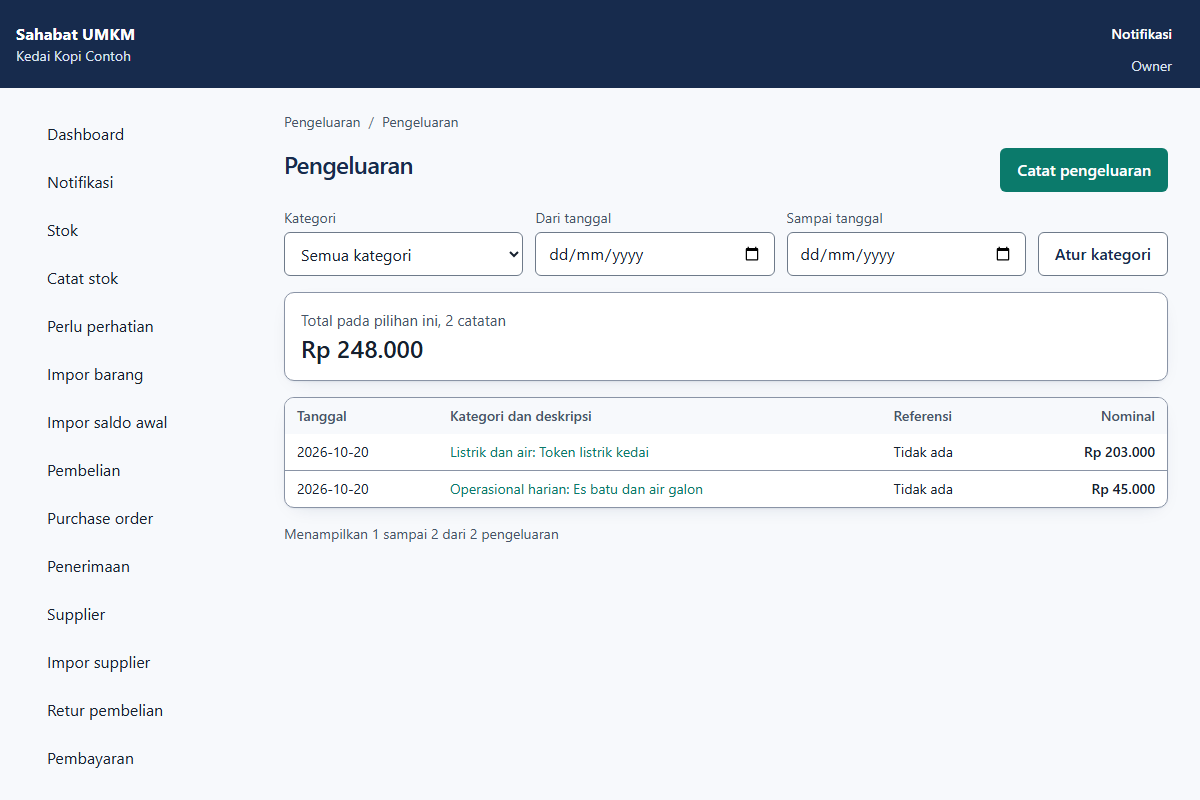
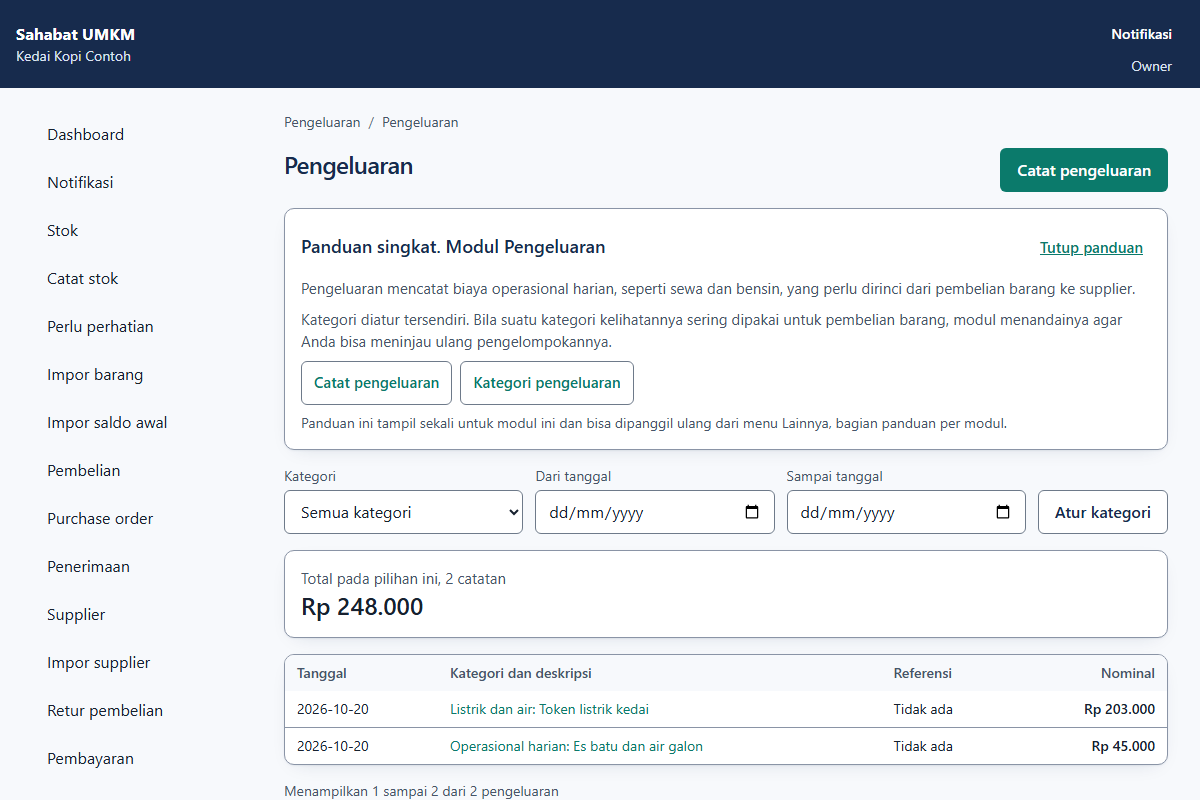
Fase 13: dokumentasi K-24 sampai K-26, teks publik antrean offline, dan tangkapan layar terbaru

diff --git a/apps/web/e2e/pwa.spec.ts b/apps/web/e2e/pwa.spec.ts
@@ -21,11 +21,16 @@ test('manifest dan ikon PWA tersedia serta service worker terdaftar', async ({ p
   expect((await page.request.get('/offline.html')).status()).toBe(200)
 
   // Pendaftaran service worker hanya di build produksi, dan berjalan dalam
-  // keadaan aktif supaya laman dapat dilayani tanpa jaringan.
+  // keadaan aktif supaya laman dapat dilayani tanpa jaringan. scriptURL kembali
+  // absolut, jadi yang dibandingkan adalah path-nya.
   await expect
-    .poll(async () => page.evaluate(async () => (await navigator.serviceWorker.getRegistration('/'))?.active?.scriptURL ?? null), {
-      timeout: 15_000,
-    })
+    .poll(
+      async () => {
+        const skrip = await page.evaluate(async () => (await navigator.serviceWorker.getRegistration('/'))?.active?.scriptURL ?? null)
+        return skrip === null ? null : new URL(skrip).pathname
+      },
+      { timeout: 15_000 },
+    )
     .toBe('/sw.js')
 })
 

diff --git a/apps/web/test/situs.test.ts b/apps/web/test/situs.test.ts
@@ -168,13 +168,17 @@ describe('pusat bantuan (PRD 15)', () => {
     expect(gabungan).toContain('verifikasi')
   })
 
-  it('tidak menjanjikan antrean offline yang belum ada', () => {
+  it('menjelaskan keadaan antrean offline apa adanya (PRD 10)', () => {
     const gabungan = bagianBantuan
       .flatMap((bagian) => bagian.butir.map((butir) => butir.isi))
       .concat(masalahUmum.map((item) => item.isi))
       .join(' ')
       .toLowerCase()
-    expect(gabungan).toContain('antrean penyimpanan offline belum tersedia')
+    // Antrean offline untuk catatan stok sudah berdiri; bagian lain masih butuh
+    // sambungan, dan keduanya harus tersurat.
+    expect(gabungan).toContain('antrean')
+    expect(gabungan).toContain('mengonfirmasi')
+    expect(gabungan).toContain('sambungan internet')
   })
 })
 

diff --git a/apps/web/src/lib/tentang.ts b/apps/web/src/lib/tentang.ts
@@ -31,6 +31,6 @@ export const prinsipTentang: Prinsip[] = [
 
 export const batasTentang: string[] = [
   'Aplikasi ini bukan pengganti akuntansi. Tidak ada jurnal, neraca, atau perhitungan pajak, dan laporan tidak menampilkan laba bersih.',
-  'Aplikasi membutuhkan sambungan internet. Antrean pencatatan saat sinyal hilang sedang dikerjakan untuk rilis berikutnya.',
+  'Catatan stok bisa dibuat saat sinyal hilang dan masuk antrean dengan status yang terlihat, tetapi bagian lain seperti penjualan, pembelian, dan pengeluaran masih membutuhkan sambungan internet.',
   'Workspace contoh untuk mencoba produk tanpa mendaftar belum tersedia. Untuk sekarang, cara mencobanya adalah membuat akun gratis dan mengisi data sendiri.',
 ]

diff --git a/apps/web/src/lib/beranda.ts b/apps/web/src/lib/beranda.ts
@@ -175,7 +175,7 @@ export const tanyaJawab: Array<{ tanya: string; jawab: string }> = [
   {
     tanya: 'Bagaimana jika sinyal hilang saat mencatat?',
     jawab:
-      'Aplikasi saat ini memerlukan koneksi internet untuk menyimpan catatan. Pencatatan saat sinyal hilang belum tersedia, dan sedang dikerjakan untuk rilis berikutnya.',
+      'Halaman yang sudah pernah dibuka tetap bisa dibuka tanpa sinyal, dan catatan stok yang ditulis saat offline masuk antrean dengan status yang terlihat. Catatan tersebut baru mengubah saldo setelah server mengonfirmasi saat koneksi kembali. Mencatat penjualan, pembelian, dan pengeluaran masih perlu koneksi internet.',
   },
   {
     tanya: 'Apakah ini pengganti akuntansi?',

diff --git a/apps/web/src/lib/bantuan.ts b/apps/web/src/lib/bantuan.ts
@@ -198,7 +198,7 @@ export const masalahUmum: ButirBantuan[] = [
   },
   {
     judul: 'Sinyal hilang saat mencatat',
-    isi: 'Aplikasi membutuhkan sambungan internet untuk menyimpan. Catatan yang gagal terkirim perlu diulang setelah kembali online, karena antrean penyimpanan offline belum tersedia.',
+    isi: 'Halaman yang sudah pernah dibuka tetap bisa dibuka tanpa sinyal. Catatan stok yang dibuat saat offline masuk antrean dengan status yang terlihat dan baru mengubah saldo setelah server mengonfirmasi saat koneksi kembali. Mencatat penjualan, pembelian, dan pengeluaran masih membutuhkan sambungan internet.',
   },
   {
     judul: 'Saldo tidak sama dengan hitungan fisik',

diff --git a/apps/web/e2e/antrean-offline.spec.ts b/apps/web/e2e/antrean-offline.spec.ts
@@ -22,7 +22,7 @@ test('isian stok saat online gagal masuk antrean, lalu terkirim saat koneksi kem
 
   await page.goto('/stok/input')
   const pilihan = page.locator('#produk option:not([value=""])')
-  await expect(pilihan.first()).toBeVisible({ timeout: 60_000 })
+  await expect(pilihan.first()).toBeAttached({ timeout: 60_000 })
   const nilaiBarang = await pilihan.first().getAttribute('value')
   expect(nilaiBarang).toBeTruthy()
 

diff --git a/docs/KEPUTUSAN-TEKNIS.md b/docs/KEPUTUSAN-TEKNIS.md
@@ -31,8 +31,11 @@ Terakhir diperbarui: 19 Oktober 2026.
 | K-19 | Gaya frontend | Tailwind CSS v4 dan Motion (Framer Motion) untuk seluruh antarmuka, menggantikan K-16. Nilai warna tetap hanya dari `packages/design-tokens`; blok `@theme` di `apps/web/src/styles/globals.css` wajib sama persis dan dijaga tes `theme-sync`. Gerak dibatasi pada animasi transformasi masuk yang terukur dan menghormati `prefers-reduced-motion` | Permintaan pemilik produk, 17 Okt 2026; PRD 13 |
 | K-20 | Notifikasi dan email | Baris notifikasi ditulis di dalam transaksi peristiwanya; email diambil dari antrean `emailed_at is null` oleh penjadwal dalam proses, tidak pernah dikirim dari dalam transaksi. Penerima dihitung dari izin (capability), pelaku sendiri dikecualikan, dan preferensi pengguna hanya bisa mematikan kanal. Notifikasi keamanan bersifat tingkat akun (`workspace_id null`) sehingga tampil di daftar semua usaha pemiliknya. Utang jatuh tempo memakai ambang `overdueDays > 0` yang sama dengan dashboard dan hanya untuk paket dengan fitur `returns`. Ringkasan harian opt-in, dikirim setelah pukul 7 pagi waktu usaha | PRD 6.9, PRD 6.2, PRD 8, PRD 16 |
 | K-21 | Penagihan langganan | Midtrans Snap lewat halaman pembayaran Midtrans, bukan Snap tertanam. Baris tagihan di-commit sebelum tautan bayar diminta, pelunasan hanya dipercaya dari notifikasi bertanda tangan, faktur PDF dibuat dengan pdfkit, masa berbayar menumpuk dari ujung masa berjalan, dan pembayaran hanya menyala kalau identitas penjual serta tautan kebijakan refund diisi lewat environment | PRD 6.10, PRD 15, PRD 16 |
-| K-22 | Beranda publik | Halaman statis berkomponen server dengan seluruh isi dan teks di `apps/web/src/lib/beranda.ts` supaya bisa diuji. Tangkapan layarnya adalah potret aplikasi dengan data contoh yang diambil `scripts/beranda-gambar.mts` dan ikut di-commit. Harga dibaca dari katalog `@sahabat/shared`, bukan ditulis ulang. Navigasi hanya menautkan halaman atau bagian yang ada; tombol "Lihat Demo Produk" menunggu workspace contoh (B-13). FAQ menjawab keadaan sekarang, termasuk kebutuhan koneksi internet sampai antrean offline selesai | PRD 11, PRD 5, K-07, B-13 |
+| K-22 | Beranda publik | Halaman statis berkomponen server dengan seluruh isi dan teks di `apps/web/src/lib/beranda.ts` supaya bisa diuji. Tangkapan layarnya adalah potret aplikasi dengan data contoh yang diambil `scripts/beranda-gambar.mts` dan ikut di-commit. Harga dibaca dari katalog `@sahabat/shared`, bukan ditulis ulang. Navigasi hanya menautkan halaman atau bagian yang ada; tombol "Lihat Demo Produk" menunggu workspace contoh (B-13). FAQ menjawab keadaan sekarang, termasuk cara antrean offline (K-25) mengamankan catatan stok saat sinyal hilang | PRD 11, PRD 5, K-07, B-13 |
 | K-23 | Situs publik lengkap | Sisa halaman publik PRD 5 dikerjakan: `/fitur` plus satu halaman per modul (`/fitur/stok`, `pembelian`, `penjualan`, `pengeluaran`, `laporan`, `langganan`), `/untuk-usaha`, `/harga`, `/bantuan`, `/tentang`, `/status`, `/kontak`, dan `/kebijakan/privasi`, `/syarat`, `/refund`. Komponen header, kaki, tombol, gambar sampel, dan tabel paket dipakai bersama di `apps/web/src/app/components/situs.tsx`; tautan navigasi/kaki dan metadata di `apps/web/src/lib/situs.ts`; isi tiap halaman di pustaka masing-masing (`lib/fitur.ts`, `lib/harga.ts`, `lib/bantuan.ts`, `lib/tentang.ts`, `lib/status.ts`, `lib/kontak.ts`, `lib/kebijakan.ts`). Halaman Status menulis "Belum dipantau otomatis" tanpa angka ketersediaan; Kontak hanya menampilkan saluran yang nyata; kebijakan dipasang sebagai draf berlabel "belum berlaku"; Harga tetap membaca katalog dengan catatan "masih usulan awal" | PRD 5, 11, 14, 15, 16 |
+| K-24 | PWA | Manifest di `apps/web/public/manifest.webmanifest` memakai warna token PRD 10 dan ikon PNG yang dihasilkan skrip tanpa pustaka gambar `scripts/ikon-pwa.mts`; lambang tiga batangnya sementara sampai merek resmi ditetapkan. Service worker `public/sw.js`: navigasi jaringan dulu lalu salinan, jatuh ke `offline.html` bila halaman belum pernah dibuka; aset statis yang tak berubah `_next/static`, `ikon`, `beranda` memakai salinan dulu; asal API berbeda dan tidak pernah disangga sehingga angka tidak pernah disajikan dari salinan. Pendaftaran hanya pada build produksi | PRD 10 |
+| K-25 | Antrean offline catatan stok | Isian Catat stok yang gagal karena jaringan masuk antrean di `apps/web/src/lib/offline.ts` (localStorage per asal), lengkap dengan kunci idempotensi yang ikut tersimpan sehingga kirim ulang tidak menggandakan stok. Status entri hanya "menunggu" atau "gagal berikut alasan server"; entri dihapus hanya setelah balasan sukses dari server, dan salinan daftar barang/lokasi selalu berlabel waktu salinannya. Modul lain tidak masuk antrean dan tetap menyatakan butuh koneksi | PRD 10, PRD 20, PRD 6.4 |
+| K-26 | Aktivasi dan panduan | Daftar periksa aktivasi dihitung server dari data workspace (`apps/api/src/onboarding`) dengan tabel `workspace_onboarding_skips` hanya untuk langkah yang sengaja dilewati; melompati atau membuka kembali hanya boleh Owner dan Admin, dan kartunya hilang bila semua langkah selesai atau dilewati. Panduan singkat per modul tampil saat halaman modul pertama dibuka, tutupnya disimpan di localStorage karena pilihannya tampilan, bukan data, dan teksnya bisa dibaca ulang dari halaman Lainnya | PRD 12 |
 
 ### Alasan K-12
 
@@ -324,11 +327,11 @@ berubah, bukan sekadar tertinggal dari sesi pengembangan tertentu.
 Navigasi dan tombolnya hanya menautkan yang benar-benar ada (PRD 5): sementara memakai
 loncatan ke bagian beranda sampai halaman modul dan harga berdiri, dan tombol "Lihat
 Demo Produk" belum dibuat karena workspace contohnya belum ada (B-13). FAQ menjawab
-seadanya: ekspor CSV sudah ada, aplikasi masih butuh internet sampai antrean offline
-(Fase 13) selesai, dan aplikasi ini bukan pengganti akuntansi (PRD 2). Butir yang belum
-terpasang (cadangan otomatis, enkripsi data saat tersimpan, TLS, kanal dukungan) tidak
-dipasang di beranda; melanggengkan klaimnya di teks promosi berarti membuat janji yang
-tidak bisa dipenuhi kode.
+seadanya: ekspor CSV sudah ada, catatan stok bisa masuk antrean offline (K-25),
+modul lain masih butuh koneksi, dan aplikasi ini bukan pengganti akuntansi (PRD 2).
+Butir yang belum terpasang (cadangan otomatis, enkripsi data saat tersimpan, TLS, kanal
+dukungan) tidak dipasang di beranda; melanggengkan klaimnya di teks promosi berarti
+membuat janji yang tidak bisa dipenuhi kode.
 
 Alamat kanonik, peta situs, robots, dan metadata membaca `NEXT_PUBLIC_SITE_URL`
 (bawaan `http://localhost:3000`) supaya URL absolut tidak ditulis ulang di beberapa
@@ -373,6 +376,60 @@ tetapi tidak menentukan bentuk isinya untuk soal transparansi. Keputusannya:
 - Catatan atas K-22: loncatan ke bagian beranda kini sudah diganti tautan ke
   halaman sungguhan sesuai rencananya, dan tes beranda memeriksa tidak ada lagi
   tautan `#` yang tersisa.
+
+### Alasan K-24
+
+PRD 10 menuntut aplikasi yang bisa dipasang dan halaman yang sudah dimuat tetap bisa
+dibuka saat sinyal hilang, tetapi tidak menentukan strategi service worker. Yang dipilih:
+
+- Navigasi jaringan dulu demi angka yang selalu baru; salinan hanya penyelamat saat
+  jaringan gagal, dan halaman yang belum pernah dibuka diberi `offline.html` yang
+  menyatakan batasnya dengan jujur, bukan memalsukan halaman lama.
+- API berada pada asal (origin) yang berbeda dan tidak pernah disangga. Menyajikan data
+  stok dari salinan berarti menampilkan angka basi seolah baru, dan itu melanggar
+  integritas data. Input offline diurus antrean halaman (K-25), bukan service worker,
+  supaya satu jalur kode yang sama untuk kirim langsung dan kirim ulang, termasuk
+  balasan galat yang sama.
+- Ikon dibuat skrip tanpa pustaka gambar dengan pengesahan baca ulang, karena menambah
+  dependensi gambar untuk lima berkas PNG kecil tidak sebanding. Lambang tiga batangnya
+  sementara sampai merek resmi ditetapkan; itu tetap tercatat di penghalang bagian 8.
+- Pendaftaran service worker hanya di build produksi supaya pengembangan dengan isi
+  yang terus berubah tidak tertahan salinan lama.
+
+### Alasan K-25
+
+PRD 10 menuntut isian offline masuk antrean dengan status terlihat dan tidak pernah
+dianggap berhasil sebelum server mengonfirmasi; PRD 20 memitigasi data ganda dengan
+antrean beridempotensi. Bentuknya:
+
+- Kunci idempotensi dibuat saat isian masuk antrean dan disimpan bersama entri, jadi
+  kirim ulang yang sama menghasilkan satu baris ledger, bukan dua. Ini memakai
+  dukungan idempotensi endpoint penyesuaian stok yang sudah ada (PRD 6.4).
+- Statusnya dua: "menunggu koneksi" dan "gagal dikirim" beserta alasan server. Entri
+  gagal tidak dihapus diam-diam, karena saldo yang berubah sejak isian dibuat bisa
+  membuatnya ditolak (stok negatif), dan itu keputusan pengguna, bukan sistem.
+- Antrean disimpan di localStorage, bukan IndexedDB, karena isinya hanya draf kecil
+  yang belum terkirim dan berkas sederhananya mudah diuji. Data utama tetap di server;
+  antrean yang rusak dibaca sebagai kosong dan tidak pernah diklaim terkirim.
+- Daftar barang dan lokasi disalin berlabel waktu supaya halaman yang sudah dibuka
+  tetap bisa dipakai offline, dan salinannya tidak pernah menyamar sebagai data segar.
+
+### Alasan K-26
+
+PRD 12 menuntut langkah opsional bisa dilewati dan ditemukan lagi lewat daftar periksa
+di dashboard, plus tur singkat per modul yang bisa dipanggil ulang. Keputusannya:
+
+- Keadaan selesai dihitung dari data (jenis usaha terisi, ada barang aktif, ada catatan
+  stok masuk dan batas minimum, ada transaksi), bukan dicentang saat pengguna membuka
+  halaman tautannya, jadi daftar tidak bisa berpura-pura selesai.
+- Lewatan disimpan di tabel `workspace_onboarding_skips` di server, bukan di peramban,
+  supaya keadaan sama untuk semua anggota dan perangkat. Hanya Owner dan Admin boleh
+  melompati karena perubahan itu mengubah tampilan semua anggota; server yang
+  memeriksa perannya, seperti aturan umum proyek ini.
+- Panduan singkat memakai satu pustaka teks untuk panel halaman modul dan bagian
+  "Panduan singkat per modul" di halaman Lainnya, sehingga "dipanggil ulang dari menu"
+  tidak butuh mekanisme tambahan dan teksnya teruji. Tutup panel disimpan di localStorage
+  karena pilihan tampilan, bukan data usaha.
 
 ### Alasan K-02
 

diff --git a/README.md b/README.md
@@ -223,7 +223,8 @@ docs/
 | Penjualan | daftar penjualan, catat penjualan, detail dan pembatalan, pelanggan, impor CSV | 6.4, 6.8 |
 | Pengeluaran | daftar, pencatatan, detail, kategori, lampiran foto/PDF | 6.5 |
 | Laporan dan ekspor | laporan usaha, pengaturan impor dan ekspor | 6.6, 6.8 |
-| Dashboard | ringkasan usaha, menu lainnya di ponsel | 6.7, 10 |
+| Dashboard | ringkasan usaha, daftar periksa aktivasi (PRD 12), menu lainnya yang memuat panduan singkat per modul | 6.7, 10, 12 |
+| PWA | manifest dengan ikon, service worker dengan offline.html, antrean offline catatan stok dengan idempotensi | 10, 20 |
 | Notifikasi | daftar notifikasi, pengaturan notifikasi | 6.9 |
 | Langganan dan tagihan | paket dan langganan, riwayat pembayaran, faktur PDF | 6.10 |
 | Situs publik | beranda + halaman fitur per modul, untuk usaha F&B dan retail, harga, pusat bantuan, tentang, status, kontak, dokumen kebijakan (draf), dengan 7 tangkapan layar data contoh, robots.txt, sitemap.xml, dan data terstruktur | 11, 15 |
@@ -435,8 +436,8 @@ keadaan yang tidak mungkin dibuat pengguna.
 Sesuai PRD 5, halaman dipasang di navigasi hanya setelah isinya selesai, dan
 navigasi kini menautkan halaman sungguhan. Tombol "Lihat Demo Produk" tetap menunggu
 workspace contoh (B-13), jadi tombol hero kedua menunjuk halaman Harga. Jawaban
-pertanyaan umum menyatakan keadaan sekarang, termasuk bahwa aplikasi
-masih butuh koneksi internet sampai antrean offline (Fase 13) selesai, dan halaman
+pertanyaan umum menyatakan keadaan sekarang: catatan stok bisa masuk antrean offline,
+modul lain masih butuh koneksi, dan aplikasi ini bukan pengganti akuntansi. Halaman
 Status menyebut pemantauan otomatisnya belum terpasang (PRD 14).
 
 Verifikasi Fase 12 (situs publik penuh) lulus: `npm run verify` (473 tes lulus,
@@ -444,6 +445,38 @@ Verifikasi Fase 12 (situs publik penuh) lulus: `npm run verify` (473 tes lulus,
 test:postgres:local` (9 lulus, 1 dilewati), build produksi, dan `npm run test:e2e`
 (248 lulus, termasuk audit aksesibilitas axe untuk seluruh halaman publik baru di
 ponsel dan desktop).
+
+## PWA dan perangkat offline (Fase 13)
+
+PRD 10 dan PRD 12 tamat di fase ini. PWA dapat dipasang: manifest di
+`apps/web/public/manifest.webmanifest` memakai warna token PRD 10, ikonnya lima PNG
+yang dihasilkan `npx tsx scripts/ikon-pwa.mts` tanpa pustaka gambar (lambang tiga
+batangnya sementara sampai merek resmi ditetapkan), dan service worker
+`apps/web/public/sw.js` memakai jaringan dulu untuk navigasi dengan salinan hanya
+sebagai penyelamat; halaman yang belum pernah dibuka jatuh ke `offline.html`, dan API
+pada asal lain tidak pernah disangga sehingga angka tidak pernah disajikan dari
+salinan (K-24).
+
+Antrean offline catatan stok berdiri di `apps/web/src/lib/offline.ts`: isian Catat
+stok yang gagal karena jaringan masuk antrean dengan status yang terlihat (menunggu
+atau gagal beserta alasan server), kunci idempotensinya ikut tersimpan sehingga
+kirim ulang tidak menggandakan stok, dan salinan daftar barang/lokasi berlabel waktu
+agar halaman yang sudah dibuka tetap terpakai (K-25). Modul lain masih butuh koneksi
+dan teks publiknya menyatakan itu.
+
+Daftar periksa aktivasi (PRD 12, K-26) dihitung server di `apps/api/src/onboarding`
+dari data nyata, lewatannya disimpan di tabel `workspace_onboarding_skips`
+(migrasi 0013), hanya Owner dan Admin yang boleh melompati, dan kartunya hilang
+saat semua langkah selesai. Panduan singkat per modul tampil saat halaman modul
+pertama dibuka (`apps/web/src/lib/panduan-modul.ts`, panel dari AppShell) dan teks
+yang sama bisa dibaca ulang di Lainnya.
+
+Verifikasi Fase 13 lulus: `npm run verify` (506 tes lulus, 8 dilewati),
+`npm run test:contrast` (35 pasangan lolos), `npm run test:postgres:local`
+(9 lulus, 1 dilewati), build produksi, dan `npm run test:e2e` (254 lulus, termasuk
+dua spesifikasi baru: alur antrean offline dari formulir sampai konfirmasi server,
+serta hidupnya manifest, ikon, pendaftaran service worker, dan buka ulang halaman
+tanpa sinyal di ponsel dan desktop).
 
 Modul stok memakai satu jalur pencatatan, `recordMovement` di
 `apps/api/src/stock/movements.ts`. Tidak ada endpoint lain yang boleh menulis ke

diff --git a/docs/ARSITEKTUR.md b/docs/ARSITEKTUR.md
@@ -143,6 +143,36 @@ adanya tanpa angka ketersediaan (PRD 14), dan tangkapan layar di
 diambil ulang lewat `npx tsx scripts/beranda-gambar.mts` dengan API dev di :4000
 dan build produksi di :3000.
 
+## PWA dan perangkat offline
+
+PWA (PRD 10, K-24) berdiri dari empat bagian: manifest
+(`apps/web/public/manifest.webmanifest`, warna dan ikon dari token PRD 10, ikonnya
+dihasilkan `scripts/ikon-pwa.mts`), service worker (`apps/web/public/sw.js`),
+`offline.html` untuk halaman yang belum pernah dibuka, dan pendaftaran
+`apps/web/src/app/components/pwa-registrasi.tsx` yang hanya aktif di build produksi.
+Service worker memakai jaringan dulu untuk navigasi, salinan hanya untuk halaman yang
+pernah dibuka, aset statis yang tak berubah memakai salinan, dan API pada asal lain
+tidak pernah disangga supaya angka tidak pernah basi.
+
+Antrean offline catatan stok (PRD 10, K-25) ada di `apps/web/src/lib/offline.ts`:
+isian yang gagal karena jaringan disimpan di localStorage bersama kunci idempotensi,
+statusnya terlihat di halaman Catat stok, dan pengiriman ulang memakai fungsi kirim
+yang sama dengan formulir. Daftar barang dan lokasi disalin berlabel waktu agar
+halaman yang sudah dibuka tetap terpakai; tidak ada angka stok yang disajikan dari
+salinan. Halaman Pusat Bantuan, beranda, dan Tentang menyatakan batasnya: hanya
+catatan stok yang berantre, modul lain masih butuh koneksi.
+
+## Aktivasi
+
+Daftar periksa aktivasi (PRD 12, K-26) dihitung server di `apps/api/src/onboarding`
+dari data workspace: jenis usaha terisi, ada barang aktif, ada catatan stok masuk dan
+batas minimum, ada transaksi. Lewatan disimpan di `workspace_onboarding_skips`
+(migrasi 0013), hanya boleh diubah Owner dan Admin, dan kartu daftar periksa
+(`apps/web/src/app/components/daftar-periksa.tsx`) hilang bila semua langkah selesai
+atau dilewati. Panduan singkat per modul memakai satu pustaka teks
+(`apps/web/src/lib/panduan-modul.ts`) yang dirender panelnya di halaman modul lewat
+AppShell dan dibaca ulang dari halaman Lainnya.
+
 ## Bentuk sistem
 
 Modular monolith, sesuai PRD 13. Dua proses yang berjalan terpisah:

diff --git a/AGENTS.md b/AGENTS.md
@@ -76,11 +76,15 @@ refund diisi lewat environment; selama itu kosong, tombol bayar tidak muncul dan
 paket berbayar tetap hanya bisa diuji 14 hari. Rinciannya di K-21
 `docs/KEPUTUSAN-TEKNIS.md`, termasuk penghalang uji pembayaran sungguhan.
 
-Urutan fase yang tersisa, supaya tidak ada tumpang tindih:
-
-| Fase | Isi | PRD |
-| --- | --- | --- |
-| 13 | PWA, antrean offline, daftar periksa aktivasi | 10, 12 |
+Fase 13 selesai: PWA dapat dipasang (manifest, ikon dari `scripts/ikon-pwa.mts`,
+service worker dengan halaman `offline.html`, K-24), antrean offline catatan stok
+dengan status terlihat dan kunci idempotensi tersimpan (K-25), daftar periksa
+aktivasi di dashboard yang dihitung server dan langkahnya bisa dilewati serta
+dibuka lagi (K-26), dan panduan singkat per modul yang bisa dipanggil ulang dari
+Lainnya. Seluruh fase PRD sudah selesai; yang tersisa hanya penghalang rilis di
+luar kendali kode pada bagian 8 `docs/KEPUTUSAN-TEKNIS.md` (badan usaha, kunci
+Midtrans, penasihat hukum, UAT, penetrasi, dukungan, penunjukan merek) dan
+perkakas pencadangan yang menguji restore.
 
 Cara menjalankan semuanya tercantum di README.md. Perintah yang dipakai sebelum
 menyerahkan hasil: npm run verify, npm run test:contrast, npm run test:postgres:local,
